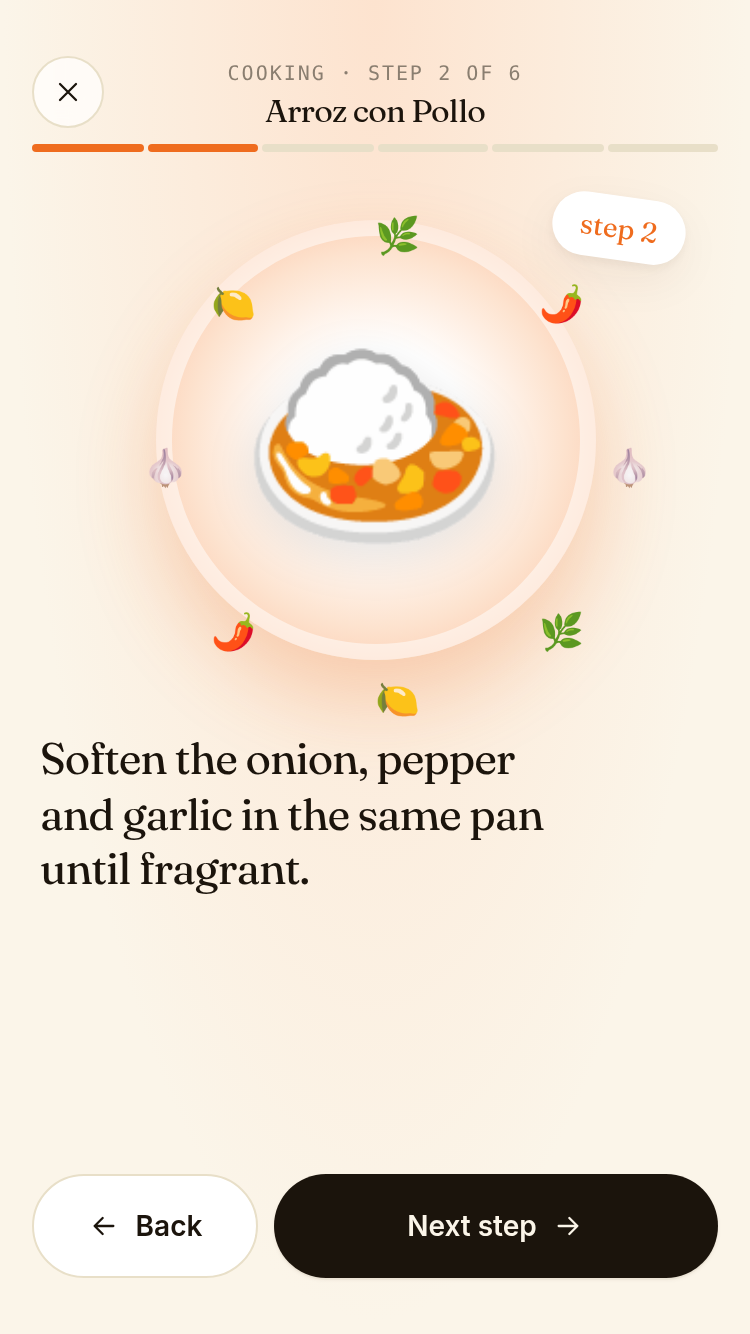
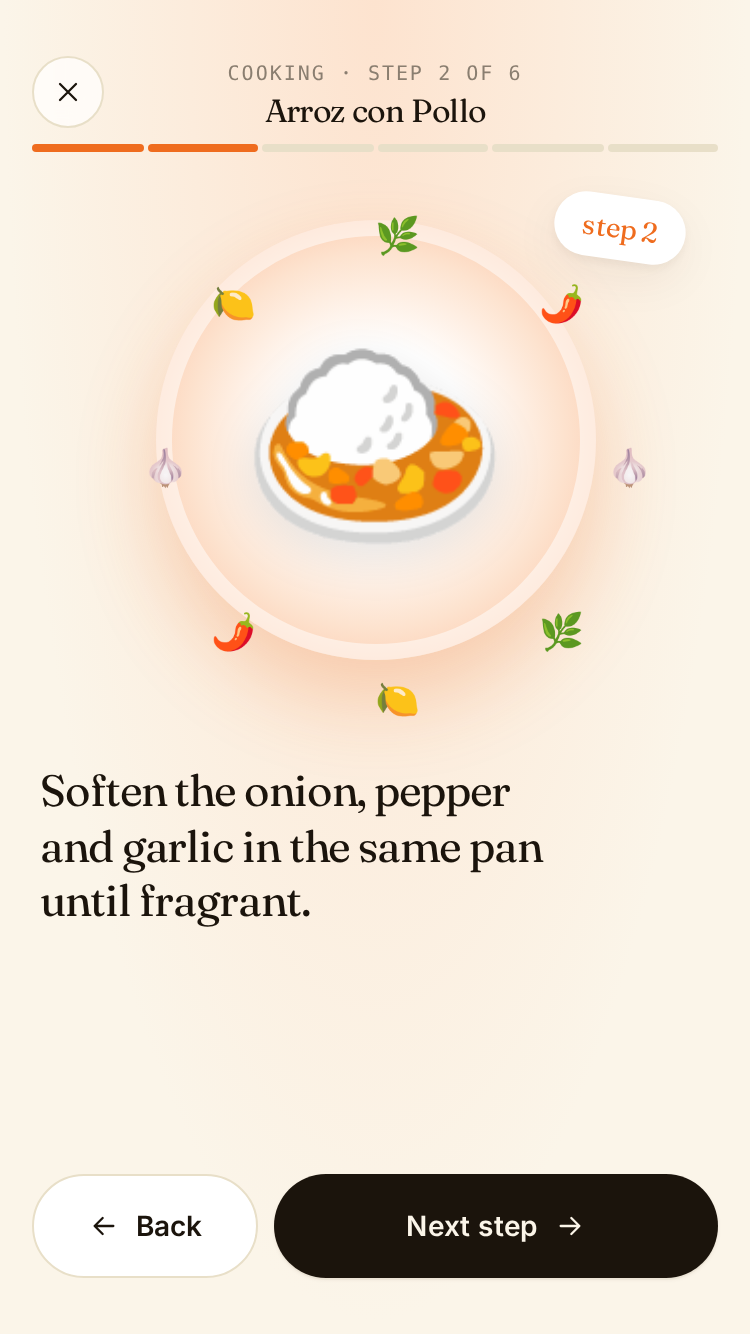
chore(pwa): re-capture store screenshots for the recipe list
Captured from demo mode with `node tests/screenshots/capture.mjs` against
the new Kitchen, Menu and Groceries-tab pages, then
`npm run build:sw` to refresh the precache revisions.

diff --git a/templates/sw.js b/templates/sw.js
@@ -41,7 +41,7 @@ if (workbox) {
   workbox.core.clientsClaim();
 
   // Precache static assets (manifest injected by Workbox CLI)
-  workbox.precaching.precacheAndRoute([{"revision":"dedd9e3c77400e9df3a22b76d2ddca54","url":"/static/screenshots/recipe-detail-mobile.png"},{"revision":"c06e6d425137d70f1bc9dfad4b45c2d4","url":"/static/screenshots/recipe-detail-mobile-fr.png"},{"revision":"2ee4556c091f56ef068639b13603ef37","url":"/static/screenshots/recipe-detail-mobile-fr-1.png"},{"revision":"c931257c92f5740e8c24772f809ffe32","url":"/static/screenshots/recipe-detail-mobile-1.png"},{"revision":"534d5cd51651a3ae1477c8d2d906ce50","url":"/static/screenshots/meal-calendar-mobile.png"},{"revision":"ac5f297cb30bdcdff35ab2590d2d6bb3","url":"/static/screenshots/meal-calendar-mobile-fr.png"},{"revision":"56f5de53b50fea25ae0e42ac003ea731","url":"/static/screenshots/groceries-mobile.png"},{"revision":"3724b47f8f986c1d4060d9cfeec005b1","url":"/static/screenshots/groceries-mobile-fr.png"},{"revision":"07fa4c21b103937a6bda6b34f1017b0e","url":"/static/screenshots/dashboard-mobile.png"},{"revision":"a09a692604f82b5aa9ea7a60c1a0abcf","url":"/static/screenshots/dashboard-mobile-fr.png"},{"revision":"4f266ccbbda866f89eba0ab87cfa3bd9","url":"/static/screenshots/dashboard-mobile-fr-1.png"},{"revision":"d6b2b4c2f5a5d7fe5bf81a41c949df64","url":"/static/screenshots/dashboard-mobile-1.png"},{"revision":"9ee52bf12c37fdfc875b2b929e9f8a6c","url":"/static/screenshots/cooking-mobile.png"},{"revision":"c2999264826e930b9429ca22ad7d6b0a","url":"/static/screenshots/cooking-mobile-fr.png"},{"revision":"5aba45c6ab47fa28f1a94a206cbd45ef","url":"/static/js/twinspark.js"},{"revision":"42225c3dcfec3a1fef8a88c84aba11b2","url":"/static/js/sw-register.js"},{"revision":"64f55e72226944ef23859050f66e3472","url":"/static/js/pwa-install.js"},{"revision":"18e1cf596913c6fcced548f0ee5852b6","url":"/static/icons/icon.svg"},{"revision":"2c0121d0b07c2d3c9a3a22b207441dcd","url":"/static/icons/icon-maskable.svg"},{"revision":"da087846670ad8ca9784a40e7febfd69","url":"/static/icons/icon-512.png"},{"revision":"e7e8f5a5500290d14ac25e8ae14c4e1b","url":"/static/icons/icon-512-maskable.png"},{"revision":"14aae3946b6c97d6b80693c6edef76a6","url":"/static/icons/icon-192.png"},{"revision":"92b24651b31dd4e8c233330512d4fdf3","url":"/static/icons/icon-192-maskable.png"},{"revision":"9c0bf863e65d6c208a57bd2b63896df7","url":"/static/icons/apple-touch-icon.png"},{"revision":"cb97b11812f02f82cf9269836fc72982","url":"/static/css/main.css"}] || []);
+  workbox.precaching.precacheAndRoute([{"revision":"7b59e53a5c170b27663d4941ed0c21b8","url":"/static/screenshots/recipe-detail-mobile.png"},{"revision":"1d01d0471d4e25f6be7d05c92d503e17","url":"/static/screenshots/recipe-detail-mobile-fr.png"},{"revision":"5ed094abab0f1ac252ee1a2d1e290ec6","url":"/static/screenshots/recipe-detail-mobile-fr-1.png"},{"revision":"c4e1f4e52a3b59bf5732d57edd8d2831","url":"/static/screenshots/recipe-detail-mobile-1.png"},{"revision":"ba82c1aa9d08f60a21f0cdd8909d62d1","url":"/static/screenshots/meal-calendar-mobile.png"},{"revision":"dd488e2476b4e7868429c8efdd11b548","url":"/static/screenshots/meal-calendar-mobile-fr.png"},{"revision":"f159507c20eecd11bbbf19100d5888cc","url":"/static/screenshots/groceries-mobile.png"},{"revision":"50cdfe5a9b0d9486c329eb80d4dde4fb","url":"/static/screenshots/groceries-mobile-fr.png"},{"revision":"65f44d6f6e6fcf064c5f0e36eea89fc1","url":"/static/screenshots/dashboard-mobile.png"},{"revision":"e70b18f61750dc6b8d506fb225d063f2","url":"/static/screenshots/dashboard-mobile-fr.png"},{"revision":"b3908eb0e2fd4d01d7d63e3f20ca7131","url":"/static/screenshots/dashboard-mobile-fr-1.png"},{"revision":"9de8eeb7d9f0a0046b3228e0a1449ee5","url":"/static/screenshots/dashboard-mobile-1.png"},{"revision":"4760a2685535ed58e04c9c087cc666b7","url":"/static/screenshots/cooking-mobile.png"},{"revision":"43c51a862cdb241324656ca83ebde227","url":"/static/screenshots/cooking-mobile-fr.png"},{"revision":"5aba45c6ab47fa28f1a94a206cbd45ef","url":"/static/js/twinspark.js"},{"revision":"42225c3dcfec3a1fef8a88c84aba11b2","url":"/static/js/sw-register.js"},{"revision":"64f55e72226944ef23859050f66e3472","url":"/static/js/pwa-install.js"},{"revision":"18e1cf596913c6fcced548f0ee5852b6","url":"/static/icons/icon.svg"},{"revision":"2c0121d0b07c2d3c9a3a22b207441dcd","url":"/static/icons/icon-maskable.svg"},{"revision":"da087846670ad8ca9784a40e7febfd69","url":"/static/icons/icon-512.png"},{"revision":"e7e8f5a5500290d14ac25e8ae14c4e1b","url":"/static/icons/icon-512-maskable.png"},{"revision":"14aae3946b6c97d6b80693c6edef76a6","url":"/static/icons/icon-192.png"},{"revision":"92b24651b31dd4e8c233330512d4fdf3","url":"/static/icons/icon-192-maskable.png"},{"revision":"9c0bf863e65d6c208a57bd2b63896df7","url":"/static/icons/apple-touch-icon.png"},{"revision":"cb97b11812f02f82cf9269836fc72982","url":"/static/css/main.css"}] || []);
 
   // HTML pages: Network-first with cache fallback
   workbox.routing.registerRoute(
